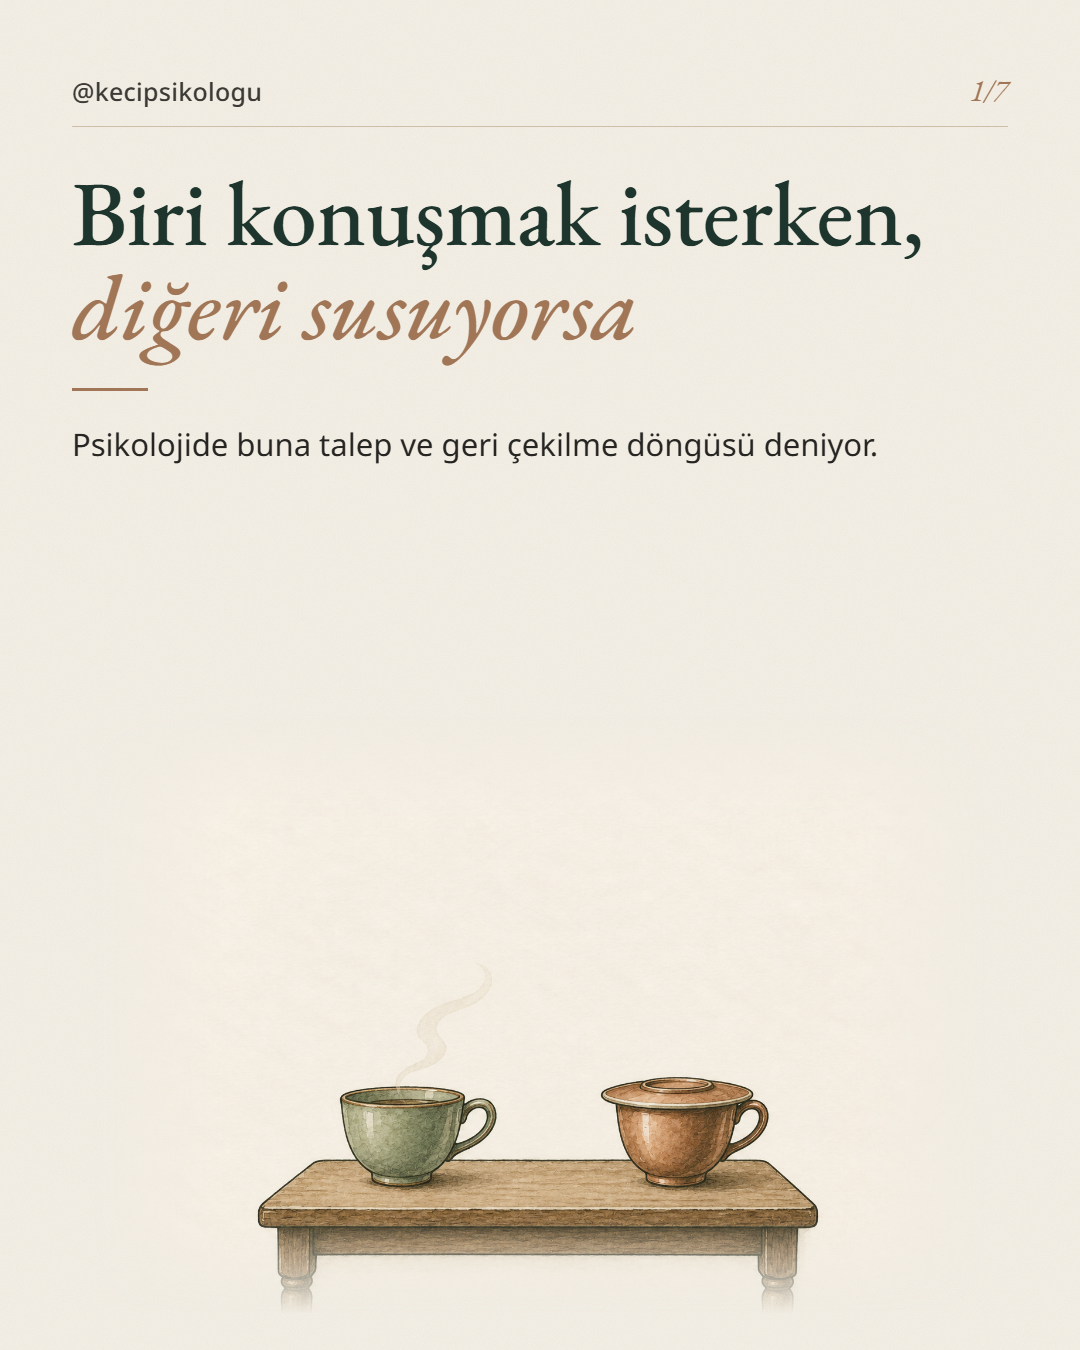
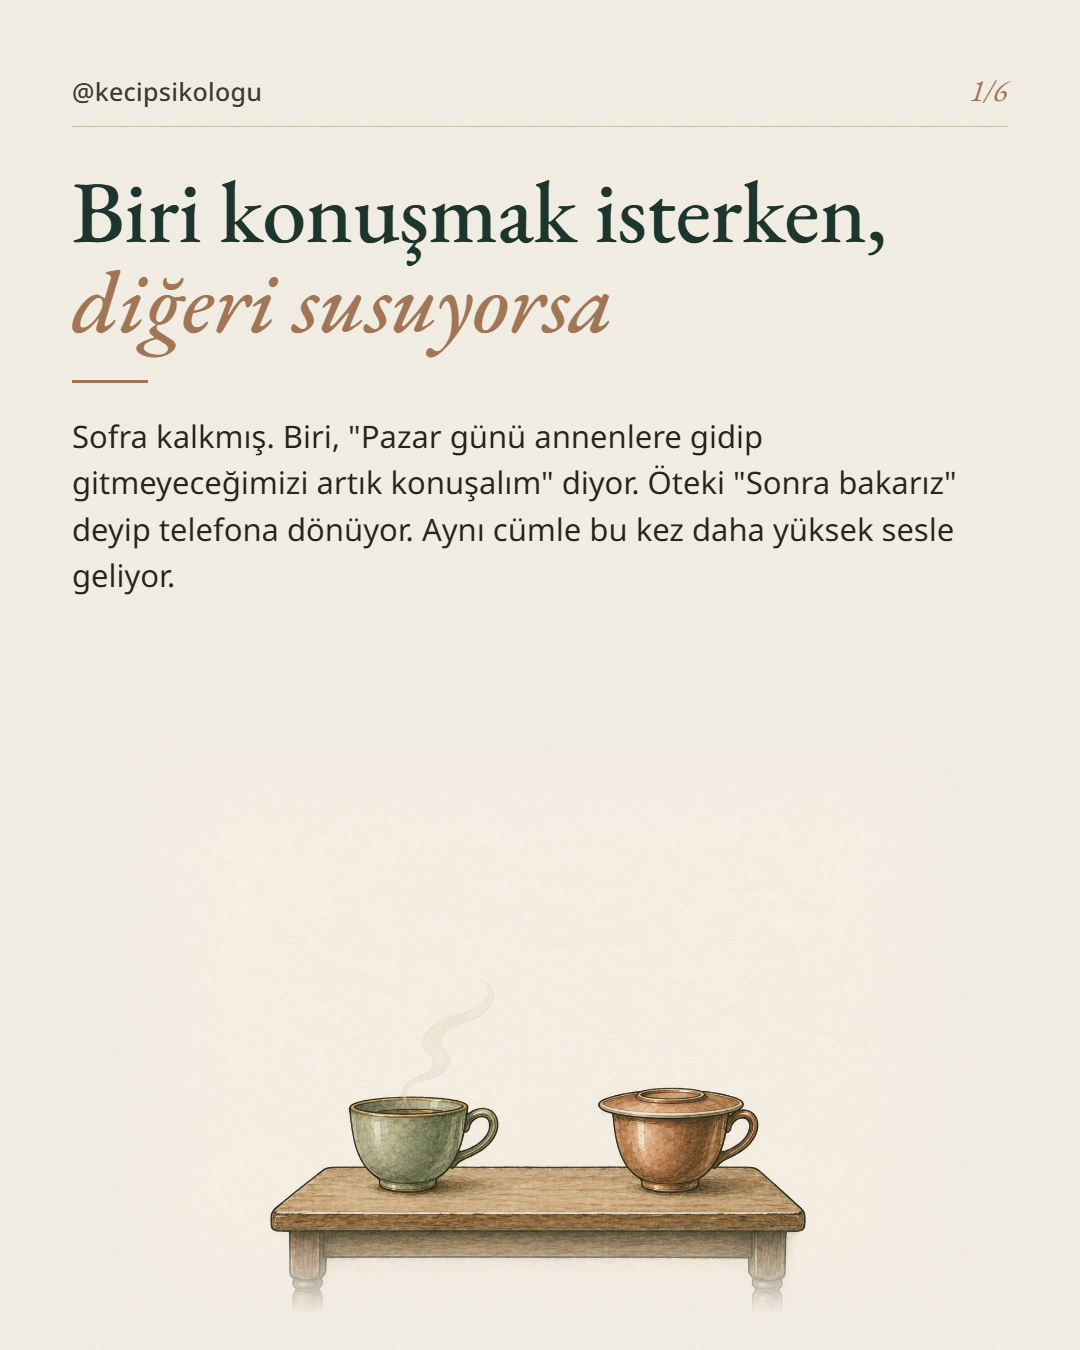
feat(posts): replace 15 Oct carousel with the rewritten six-slide v2
Claude-Session: https://claude.ai/code/session_01YRjYDNXAqdazCHQBaajULc

Changed region(s): [[0.0611, 0.28, 0.8861, 0.4356], [0.2444, 0.7778, 0.7639, 0.9644], [0.0611, 0.1244, 0.8556, 0.28]]

diff --git a/posts/2026-10-15-talep-geri-cekilme/caption.md b/posts/2026-10-15-talep-geri-cekilme/caption.md
@@ -1,14 +1,14 @@
-Biri konuyu açmak için üstelerken öteki geri çekiliyorsa, ikisi de aynı döngünün içinde olabilir.
+Kimimiz konuşarak sakinleşir, kimimiz susarak.
 
-Araştırmalarda bu döngü, düşük ilişki memnuniyetiyle birlikte görülüyor. Roller ise konuya göre yer değiştirebiliyor. Bulgular, döngüyü kimin başlattığını göstermiyor.
+Bunu bazen çok önce, büyüdüğümüz evde öğreniriz. Bir evde "konuşulmadan hiçbir şey çözülmez" denir, ötekinde "büyütme, üstüne gitme". İki kişi bir ilişki kurduğunda bu iki ev de aynı sofraya oturur ve birinin sakinleşme yolu ötekini daha çok tedirgin edebilir.
 
-Partnerinizden korkuyorsanız, sizi tehdit ediyor ya da kontrol ediyorsa, bu bir iletişim sorunu değildir. Önce kendi güvenliğiniz gelir. Acil bir tehlike varsa hemen 112'yi arayın. Sonraki adım için bir uzmandan bireysel olarak yardım alabilirsiniz. Yardım kanalları: ALO 183 Sosyal Destek Hattı (7/24), 112 Acil Çağrı Merkezi, KADES ve ŞÖNİM.
+Zor bir konuşmanın ardından kendimize şunu sorabiliriz: Az önce ben neyden korkuyordum, o neyden korkuyor olabilir?
 
-Bu tür konuşmaları bir uzmanla birlikte düşünmek isterseniz, psikolojik danışmanlık hizmeti için profildeki bağlantıdan ulaşabilirsiniz.
+Bu döngüye bir uzmanla birlikte bakmak isterseniz, psikolojik danışmanlık hizmeti için profildeki bağlantıdan ulaşabilirsiniz. Ön görüşme formu onourimpram.com adresinde.
 
 Kaynaklar:
-Communication Monographs (2014), meta-analiz: https://doi.org/10.1080/03637751.2013.813632
-Journal of Family Psychology (2009): https://doi.org/10.1037/a0016185
 Journal of Family Psychology (2010): https://doi.org/10.1037/a0019717
+Journal of Family Psychology (2009): https://doi.org/10.1037/a0016185
+Journal of Consulting and Clinical Psychology (2005): https://doi.org/10.1037/0022-006X.73.4.624
 
-#psikoloji #psikoeğitim #ilişkiler #iletişim #çiftilişkileri
+#psikoloji #ilişkiler #çiftilişkileri #iletişim #psikoeğitim
